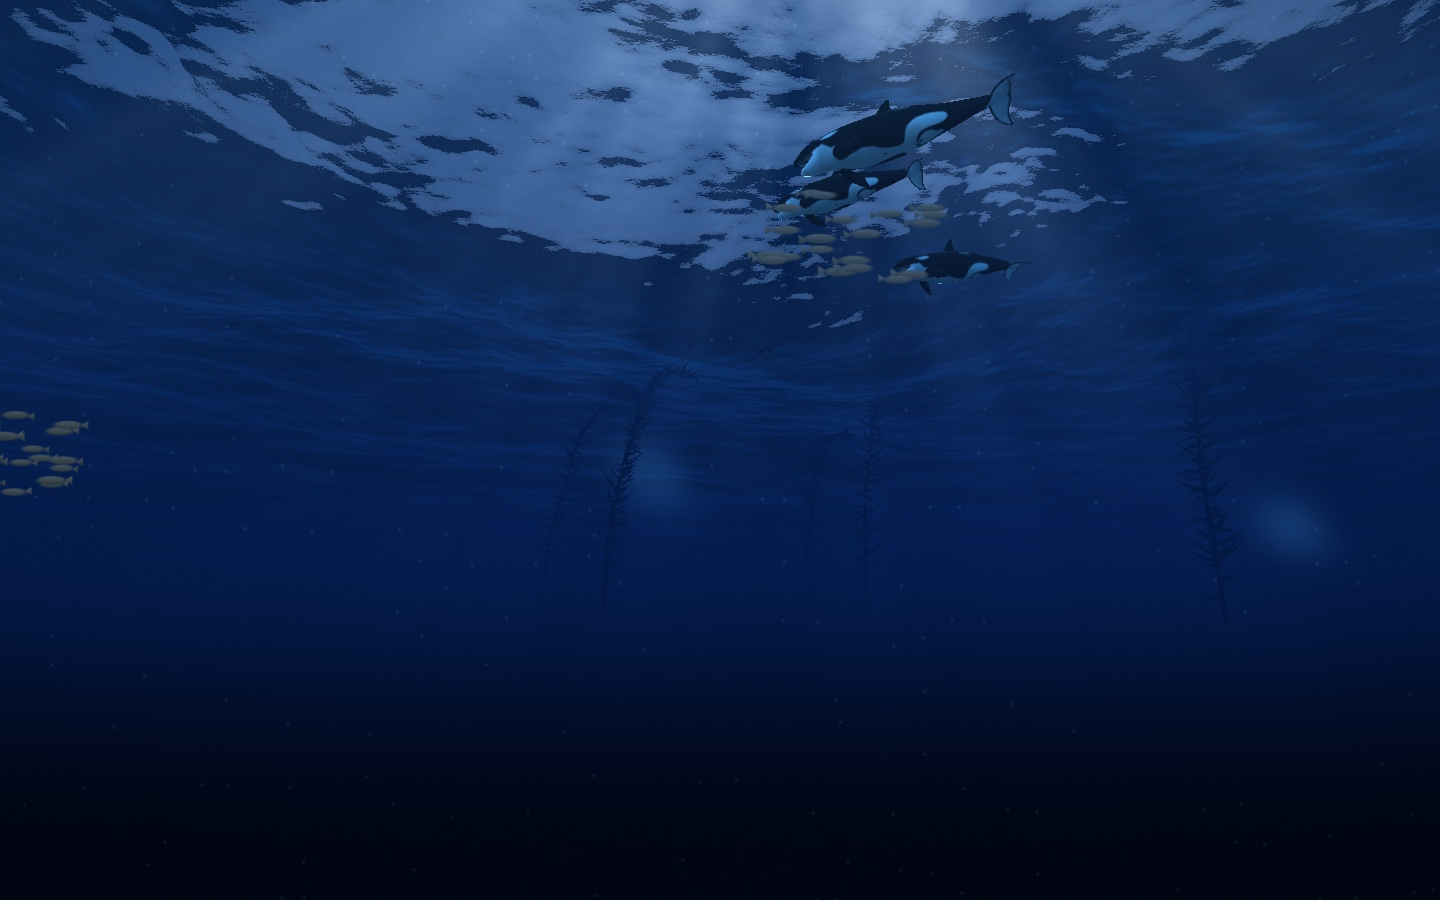
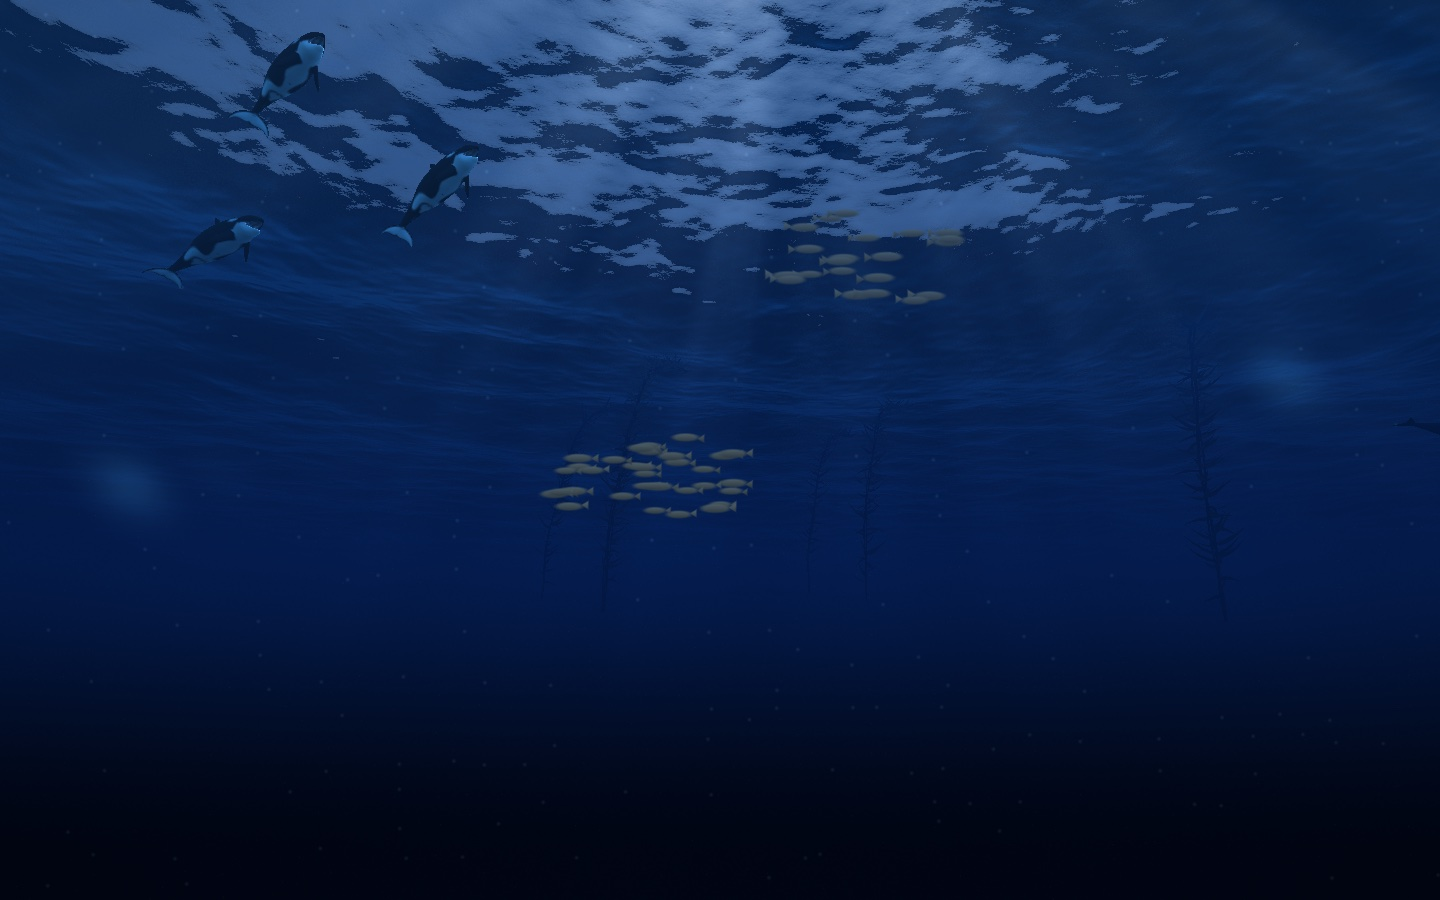
fix(scene): whales no longer jump, spin or stutter
Measured in the pod clip: steps of up to 3.9 m, turns of 112 degrees and pitch
of 84 degrees between two frames. Causes and fixes:

- The dive depth switched in the middle of a dive instead of at the surface,
  teleporting the whale by up to 12 m: it now switches at the surface
- The route could stall and reverse: it is now a figure of eight traced by one
  clock, which never stops
- A visit to the front came, stopped and backed away: it is now a pass in
  front of the camera, confined to one crossing of the route
- Pod places were set off sideways from a direction that could flip: they are
  now fixed offsets
- The private wander could cancel the route's slowest motion: it is gentler
- Heading follows the swimming direction averaged over 16 s; pitch is limited
  to 29 degrees; banking comes from the heading's change

New check: an orca and a right whale followed second by second for six hours
never move more than 2 m, turn more than 20 degrees or tilt more than 30.

Part of #7

diff --git a/macos/EchomereScene/Sources/CoveScene/CoveScene.swift b/macos/EchomereScene/Sources/CoveScene/CoveScene.swift
@@ -113,9 +113,11 @@ public struct CoveScene: Equatable, Sendable {
         struct Route {
             let seed: UInt64
             let amplitudeX, periodX, phaseX: Double
-            let centreZ, amplitudeZ, periodZ, phaseZ: Double
+            let centreZ, amplitudeZ, phaseZ: Double
             let periodY, phaseY: Double
-            let approachPeriod, approachPhase, nearest: Double
+            /// The whale comes to the front once in this many rounds of its route.
+            let roundsPerVisit: Double
+            let nearest: Double
             let breathingCycle, breathingOffset, breathInterval: Double
             let breaths: Int
 
@@ -127,12 +129,11 @@ public struct CoveScene: Equatable, Sendable {
                 phaseX = random.angle()
                 centreZ = random.range(62, 76)
                 amplitudeZ = random.range(14, 20)
-                periodZ = random.range(400, 640) / species.pace
-                phaseZ = random.angle()
+                // Kept away from a quarter turn, where the figure of eight would have a stopping point.
+                phaseZ = random.range(-0.9, 0.9)
                 periodY = random.range(240, 420)
                 phaseY = random.angle()
-                approachPeriod = random.range(3600, 7200)
-                approachPhase = random.angle()
+                roundsPerVisit = max(3, (random.range(3600, 7200) / periodX).rounded())
                 nearest = random.range(14, 22)
                 breathingCycle = random.range(species.breathingCycle.lowerBound, species.breathingCycle.upperBound)
                 breathingOffset = random.range(0, breathingCycle)
@@ -140,21 +141,30 @@ public struct CoveScene: Equatable, Sendable {
                 breathInterval = species.breathInterval * random.range(0.9, 1.1)
             }
 
-            /// Where the route is over the ground (x, z) at a moment.
+            /// Where the route is over the ground (x, z) at a moment. The route is a wide figure of eight,
+            /// traced by one clock, so the whale never comes to a stop and always has a direction.
             func ground(at t: Double) -> SIMD2<Double> {
-                // The visit to the front: 0 for most of the cycle, rising to 1 for a short while.
-                let visit = pow(0.5 + 0.5 * sin(cycle(t, approachPeriod) + approachPhase), 90)
-                let far = centreZ + amplitudeZ * sin(cycle(t, periodZ) + phaseZ)
-                return SIMD2(amplitudeX * (1 - 0.8 * visit) * sin(cycle(t, periodX) + phaseX),
-                             far + (nearest - far) * visit)
+                let around = cycle(t, periodX) + phaseX
+                // The visit to the front: 0 for most of the time, rising to 1 for a short while. It peaks when
+                // the whale crosses in front of the camera at its full sideways speed, so the whale swims past
+                // the camera; it never comes to it, stops and backs away.
+                // The whole visit fits into that one crossing: it is over before the whale reaches the far ends
+                // of its route, where it turns.
+                var long = cycle(t, periodX * roundsPerVisit) + phaseX / roundsPerVisit
+                long = long.truncatingRemainder(dividingBy: 2 * .pi)
+                if long > .pi { long -= 2 * .pi }
+                let fromCrossing = long * roundsPerVisit            // in radians of the route
+                let visit = exp(-(fromCrossing / 0.55) * (fromCrossing / 0.55))
+                let far = centreZ + amplitudeZ * sin(2 * around + phaseZ)
+                return SIMD2(amplitudeX * (1 - 0.6 * visit) * sin(around), far + (nearest - far) * visit)
             }
         }
 
         let species: WhaleSpecies
         let route: Route
-        /// An orca's place in its pod: seconds behind the lead, metres to the side and above or below, and
-        /// seconds after the pod's breath. All zero for a right whale.
-        let behind, beside, above, breathDelay: Double
+        /// An orca's place in its pod: seconds behind the lead, metres from the pod's line (in a fixed
+        /// direction), metres above or below, and seconds after the pod's breath. All zero for a right whale.
+        let behind, beside, besideAngle, above, breathDelay: Double
         /// A small wander of its own around its place.
         let wanderPeriod, wanderPhase: Double
         /// Depth of the whale's middle when its back breaks the surface, in metres.
@@ -170,14 +180,15 @@ public struct CoveScene: Equatable, Sendable {
                 // One route per cove and species, so every orca in the cove shares it.
                 route = Route(seed: combine(cove.value, stableHash("pod-\(look.species.rawValue)")), species: look.species)
                 behind = random.range(0, 30)
-                beside = random.range(-12, 12)
+                beside = random.range(3, 12)
+                besideAngle = random.angle()
                 above = random.range(-2, 2)
                 breathDelay = random.range(0, 4)
             } else {
                 route = Route(seed: own, species: look.species)
-                behind = 0; beside = 0; above = 0; breathDelay = 0
+                behind = 0; beside = 0; besideAngle = 0; above = 0; breathDelay = 0
             }
-            wanderPeriod = random.range(50, 90)
+            wanderPeriod = random.range(110, 170)
             wanderPhase = random.angle()
             surfaceDepth = 0.085 * look.length
             tailPeriod = random.range(4.5, 6.5)
@@ -209,8 +220,9 @@ public struct CoveScene: Equatable, Sendable {
             let dip = 0.5 + 0.5 * cos(2 * Double.pi * Double(route.breaths) * u)
             let surfaceY = -surfaceDepth * (1 + 2.2 * dip)
 
-            // Each dive goes to its own depth. The dive changes while the whale is at the surface.
-            let dive = UInt64(max((cycles + 0.5).rounded(.down), 0))
+            // Each dive goes to its own depth. A cycle runs from the middle of one surface series to the middle
+            // of the next, so the depth changes while the whale is at the surface, where it doesn't matter.
+            let dive = UInt64(max(cycles.rounded(.down), 0))
             var random = SplitMix64(seed: combine(route.seed, dive))
             let depth = random.unit()
             var diveCentre = -22 + 12 * depth
@@ -226,46 +238,53 @@ public struct CoveScene: Equatable, Sendable {
         func position(at t: Double) -> SIMD3<Double> {
             let along = travelTime(t) - behind
             var ground = route.ground(at: along)
-            if beside != 0 {
-                let ahead = route.ground(at: along + 2) - ground
-                let length = max((ahead * ahead).sum().squareRoot(), 1e-6)
-                ground += SIMD2(-ahead.y, ahead.x) / length * beside
-            }
+            ground += SIMD2(cos(besideAngle), sin(besideAngle)) * beside
             let wander = cycle(t, wanderPeriod) + wanderPhase
-            ground += SIMD2(2.5 * sin(wander), 2.5 * sin(wander * 0.7 + 1.3))
+            // Gentler than the slowest part of the route, so it can never bring the whale to a stop.
+            ground += SIMD2(0.5 * sin(wander), 0.5 * sin(wander + 1.3))
             let breath = breathing(at: t)
             return SIMD3(ground.x, breath.diveY + (breath.surfaceY - breath.diveY) * breath.atSurface, ground.y)
         }
 
-        struct State {
-            let position: SIMD3<Double>
-            let velocity: SIMD3<Double>
-            let acceleration: SIMD3<Double>
+        /// Velocity in metres per second, measured over two seconds so it is steady.
+        func velocity(at t: Double) -> SIMD3<Double> {
+            (position(at: t + 1) - position(at: t - 1)) / 2
         }
 
-        func state(at t: Double) -> State {
-            let step = 0.5
-            let before = position(at: t - step), now = position(at: t), after = position(at: t + step)
-            return State(position: now, velocity: (after - before) / (2 * step),
-                         acceleration: (after - 2 * now + before) / (step * step))
+        /// The compass direction the whale points in, in radians: the direction it swims in, averaged over
+        /// about 16 seconds. So where its path doubles back and it almost stops, it comes round slowly, the
+        /// way a whale turns, without spinning on the spot.
+        func heading(at t: Double) -> Double {
+            var sum = SIMD2<Double>(0, 0)
+            for offset in stride(from: -8.0, through: 8.0, by: 2.0) {
+                let v = velocity(at: t + offset)
+                let ground = (v.x * v.x + v.z * v.z).squareRoot()
+                if ground > 1e-9 { sum += SIMD2(v.x, v.z) / ground }
+            }
+            return atan2(sum.x, sum.y)
         }
     }
 
     func whalePose(for visitor: Visitor, at t: Double) -> WhalePose {
         let path = WhalePath(cove: seed, creatureID: visitor.creatureID, look: visitor.look)
-        let state = path.state(at: t)
-        let v = state.velocity, a = state.acceleration
-        let speed = max((v * v).sum().squareRoot(), 1e-6)
-        // The whale banks into its turns: the faster it turns, the further it leans.
-        let turnRate = (v.z * a.x - v.x * a.z) / max(v.x * v.x + v.z * v.z, 1e-6)
+        let v = path.velocity(at: t)
+        let ground = (v.x * v.x + v.z * v.z).squareRoot()
+        let speed = (v * v).sum().squareRoot()
+        let heading = path.heading(at: t)
+        // A whale tilts up when it climbs and down when it dives, but never steeply.
+        let pitch = min(max(atan2(v.y, max(ground, 0.45)), -0.5), 0.5)
+        // It banks into its turns, more the faster it turns, and rolls a little, lazily, as it swims.
+        var turn = path.heading(at: t + 1) - path.heading(at: t - 1)
+        if turn > .pi { turn -= 2 * .pi }
+        if turn < -.pi { turn += 2 * .pi }
+        let bank = min(max(turn / 2 * 4, -0.3), 0.3) * Sky.smooth(0.15, 0.4, ground)
         let sinceArrival = t - visitor.arrivedAt.timeIntervalSince1970
         return WhalePose(
             id: visitor.creatureID,
             species: visitor.look.species,
-            position: state.position,
-            forward: v / speed,
-            // It also rolls a little, lazily, as it swims.
-            roll: min(max(turnRate * 8, -0.35), 0.35) + 0.12 * sin(cycle(t, path.rollPeriod) + path.rollPhase),
+            position: path.position(at: t),
+            forward: SIMD3(sin(heading) * cos(pitch), sin(pitch), cos(heading) * cos(pitch)),
+            roll: bank + 0.12 * sin(cycle(t, path.rollPeriod) + path.rollPhase),
             tailPhase: wrapAngle(cycle(t, path.tailPeriod) + path.tailPhase),
             length: visitor.look.length,
             effort: min(max(speed / 0.8, 0.15), 1),
@@ -298,7 +317,7 @@ public struct CoveScene: Equatable, Sendable {
     func echoPose(for echo: Echo, at t: Double) -> EchoPose {
         let left = echo.leftAt.timeIntervalSince1970
         // The echo stays where the whale swam in this cove when it left, as the camera saw it.
-        let place = WhalePath(cove: seed, creatureID: echo.creatureID, look: echo.look).state(at: left).position
+        let place = WhalePath(cove: seed, creatureID: echo.creatureID, look: echo.look).position(at: left)
         let seen = SceneCamera.project(place, aspect: SceneRules.worldWidth)
         let position = (
             x: SceneRules.worldCentreX + ((seen?.x ?? 0.5) - 0.5) * SceneRules.worldWidth,

diff --git a/macos/EchomereScene/Sources/SceneChecks/main.swift b/macos/EchomereScene/Sources/SceneChecks/main.swift
@@ -159,6 +159,21 @@ check("an orca arriving or leaving doesn't move the others",
       munichBay.frame(at: noon, visitors: pod, echoes: []).whales.first { $0.id == "orca-1" }
           == munichBay.frame(at: noon, visitors: [pod[0]], echoes: []).whales.first { $0.id == "orca-1" })
 
+print("Whales move without jumps")
+// Follow an orca and a right whale second by second for six hours: through dives, breaths and visits.
+for id in ["orca-1", "right-1"] {
+    let poses = track(id, among: pod, from: noon, seconds: 6 * hour, every: 1)
+    var step = 0.0, turn = 0.0, rollChange = 0.0, steepest = 0.0
+    for (a, b) in zip(poses, poses.dropFirst()) {
+        step = max(step, distance(a, b))
+        turn = max(turn, acos(max(-1, min(1, (a.forward * b.forward).sum()))) * 180 / .pi)
+        rollChange = max(rollChange, abs(a.roll - b.roll) * 180 / .pi)
+        steepest = max(steepest, abs(asin(max(-1, min(1, b.forward.y)))) * 180 / .pi)
+    }
+    check("\(id) never jumps: in one second it moves at most \(String(format: "%.1f", step)) m, turns \(String(format: "%.1f", turn))°, rolls \(String(format: "%.1f", rollChange))°, and tilts at most \(Int(steepest))°",
+          poses.count == 6 * 3600 && step < 2 && turn < 20 && rollChange < 6 && steepest <= 30)
+}
+
 print("Pace, day and night")
 // The sky's hour is UTC, and `noon` above is just a fixed moment (21:20 UTC). Take the following day, when
 // all the visitors have arrived.
